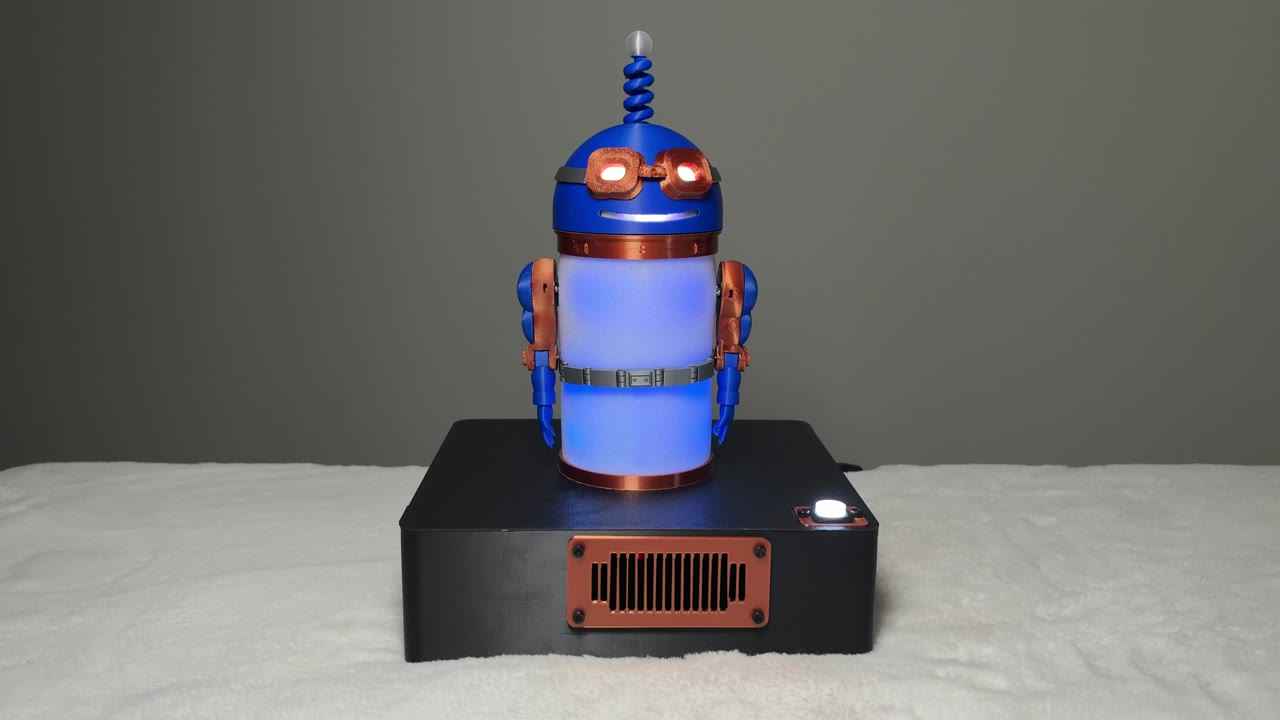
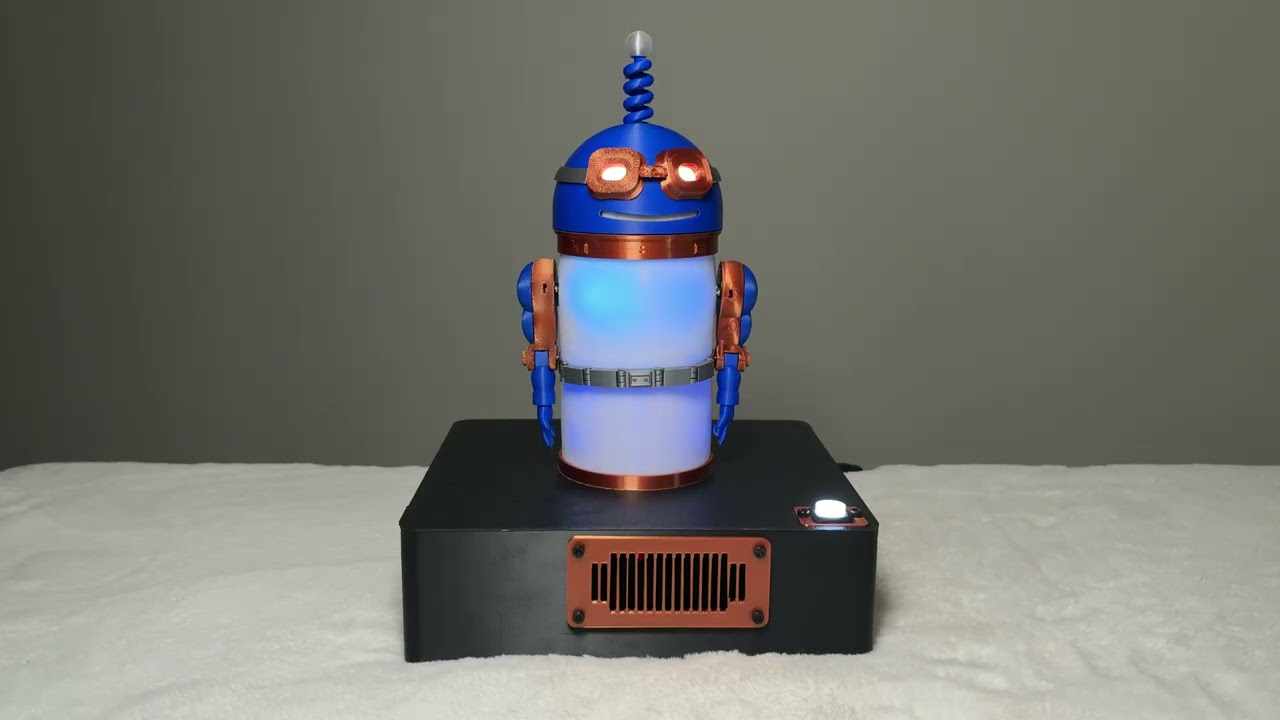
Update the homepage demo video and poster

Changed region(s): [[0.4062, 0.2139, 0.5625, 0.7333]]

diff --git a/hardware/build-guide/src/app.js b/hardware/build-guide/src/app.js
@@ -89,7 +89,7 @@ function start(){
   ['M4 20l4-1L20 7l-3-3L5 16l-1 4Zm10-13 3 3M4 4h5M4 8h2','Your own kind of robot','Choose filament colors, add paint, and adjust his voice or personality. The hardware designs and software are open source, ready for tinkering.']
  ];
  return `<article class="character-intro"><div class="intro-grid"><section><p class="eyebrow">Hello, Earth.</p><h1 tabindex="-1">Meet<br>BlooglyBlob.</h1><p class="lede">A curious little visitor from planet Meep. He chats, lights up, waves his arms—and can even throw a little dance party.</p><p class="intro-copy">An open-source, 3D-printed robot you can build yourself. He runs on Raspberry Pi and uses the <a href="https://developers.openai.com/api/docs/models/gpt-live-1" target="_blank" rel="noreferrer">OpenAI Live API</a> for voice conversations.</p><div class="actions"><a class="button" href="#start/demo">Watch the demo ↓</a>${started?`<a class="button primary" href="#step-${next.id}">Continue your build →</a>`:''}</div></section>${diagram('assets/r22/main-front.png','BlooglyBlob lit up, with glowing goggle eyes, a rainbow mouth, a softly lit body, blue-violet head and hands, copper details and a black base','',{hero:true})}</div>
- <section class="character-demo" id="demo" aria-labelledby="demo-title"><p class="eyebrow">See the real robot</p><h2 id="demo-title" tabindex="-1">See BlooglyBlob in action.</h2><div class="demo-player"><button type="button" class="demo-preview" data-play-demo aria-label="Play the BlooglyBlob demo"><img src="assets/demo-poster.jpg" width="1280" height="720" loading="lazy" alt="BlooglyBlob glowing purple on his base in the filmed demo"><span class="demo-play"><svg viewBox="0 0 24 24" width="24" height="24" fill="currentColor" aria-hidden="true"><path d="M8 5v14l11-7z"/></svg>Play demo <span class="demo-duration">3:40</span></span></button></div><p class="fine demo-link"><a href="https://youtu.be/m9ELGv8bA2M" target="_blank" rel="noreferrer">Watch on YouTube ↗</a></p></section>
+ <section class="character-demo" id="demo" aria-labelledby="demo-title"><p class="eyebrow">See the real robot</p><h2 id="demo-title" tabindex="-1">See BlooglyBlob in action.</h2><div class="demo-player"><button type="button" class="demo-preview" data-play-demo aria-label="Play the BlooglyBlob demo"><img src="assets/demo-poster.jpg" width="1280" height="720" loading="lazy" alt="BlooglyBlob with illuminated eyes and a blue-lit body on his base in the filmed demo"><span class="demo-play"><svg viewBox="0 0 24 24" width="24" height="24" fill="currentColor" aria-hidden="true"><path d="M8 5v14l11-7z"/></svg>Play demo <span class="demo-duration">3:37</span></span></button></div><p class="fine demo-link"><a href="https://youtu.be/E18XkK9HcYE" target="_blank" rel="noreferrer">Watch on YouTube ↗</a></p></section>
  <section class="character-capabilities" aria-labelledby="character-features-title"><p class="eyebrow">Get to know him</p><h2 id="character-features-title">A few of his favorite things.</h2><div class="character-features">${features.map(([path,title,copy])=>`<section><svg viewBox="0 0 24 24" fill="none" stroke="currentColor" stroke-width="1.6" stroke-linecap="round" stroke-linejoin="round" aria-hidden="true"><path d="${path}"/></svg><h3>${title}</h3><p>${copy}</p></section>`).join('')}</div><div class="character-prompts"><span>Try saying</span><q>Tell me about space.</q><q>Let’s dance!</q><q>Set a five-minute timer.</q></div></section>
  <section class="character-build" aria-labelledby="character-build-title"><p class="eyebrow">Make a little character of your own</p><h2 id="character-build-title">Bring your BlooglyBlob to life.</h2><p>This is a hands-on build with 3D printing, soldering and Raspberry Pi setup. The guide takes you from loose parts to your first conversation.</p><div class="actions">${started?`<a class="button primary" href="#step-${next.id}">Continue your build →</a><a class="button" href="#before-you-start">Before you start</a>`:'<a class="button primary" href="#before-you-start">Start building →</a>'}<a class="button" href="#parts">Explore the parts</a></div><p class="fine">Voice features need an internet connection and your own OpenAI API key. API usage is billed to your account. <a href="#step-computer-ssh-key">See the Pi setup steps</a>.</p>
  <p class="notice"><b>DIY project, provided as is.</b> You are responsible for your build and its use; no safety or performance guarantees are made. This is a hobby project for adults, not a toy, and is not designed for children. <a href="#safety">Read the safety and responsibility notice</a>.</p>
@@ -364,7 +364,7 @@ document.addEventListener('click',e=>{
  const demo=e.target.closest('[data-play-demo]');
  if(demo){
   const iframe=document.createElement('iframe');
-  iframe.src='https://www.youtube-nocookie.com/embed/m9ELGv8bA2M?autoplay=1&playsinline=1&rel=0';
+  iframe.src='https://www.youtube-nocookie.com/embed/E18XkK9HcYE?autoplay=1&playsinline=1&rel=0';
   iframe.title='BlooglyBlob demo on YouTube';
   iframe.allow='autoplay; encrypted-media; fullscreen; picture-in-picture';
   iframe.allowFullscreen=true;
